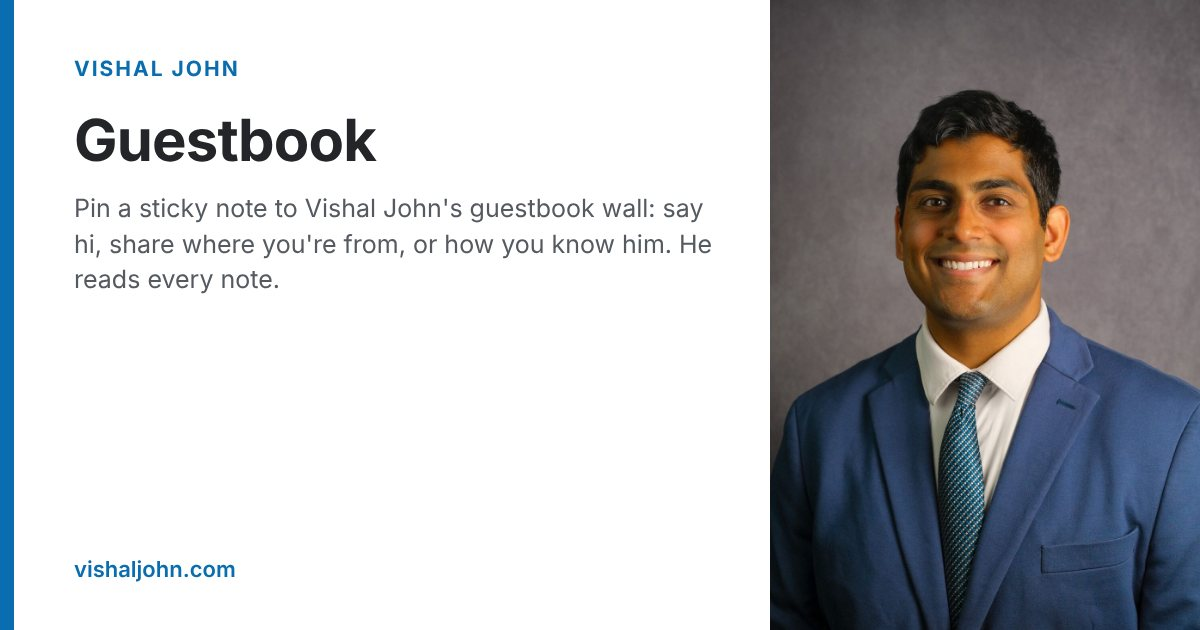
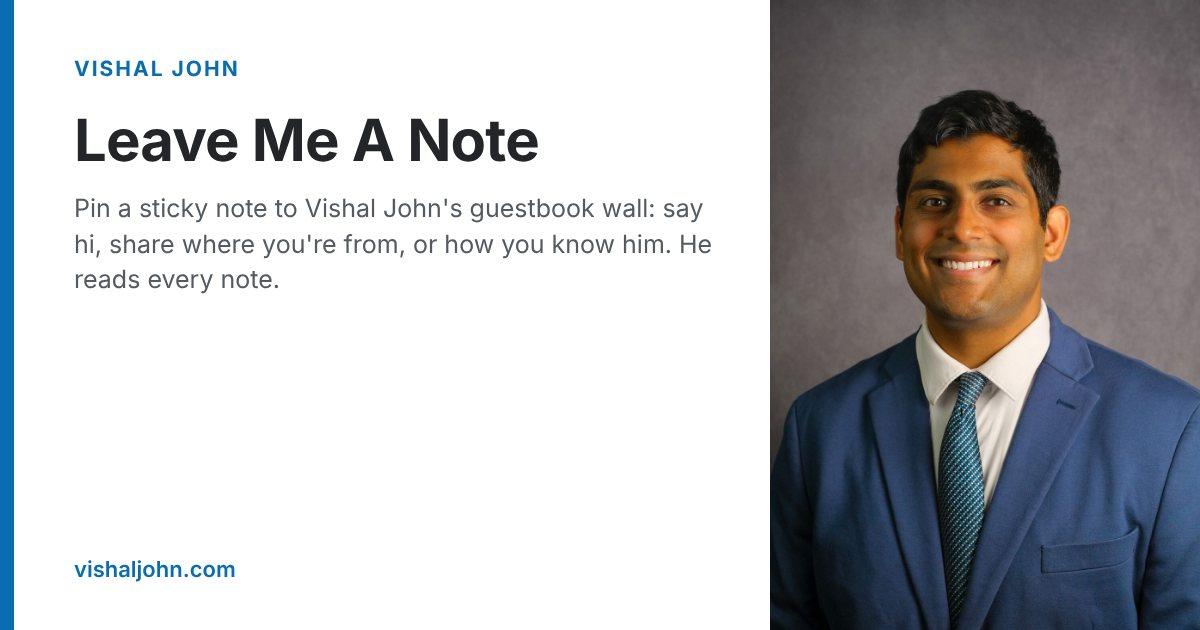
Rename Block Sim to Test Simulator, cookbook to Recipes; mobile and polish fixes
- Coding Projects: Test Simulator name and features match the renamed app; fix screenshot height,
  text clipping at 320px, and low-contrast labels
- Cookbook page is now 'Recipes' with recipe names matching the Recipes deck; shared recipe links open in place
- Guestbook heading matches the 'Leave Me A Note' nav; contact page card link styled
- Share images regenerated

Claude-Session: https://claude.ai/code/session_015P5LaJuV5QWX27LEm6GLrt

Changed region(s): [[0.0617, 0.181, 0.4625, 0.2714]]

diff --git a/pages/cookbook.html b/pages/cookbook.html
@@ -9,22 +9,22 @@
     <link rel="manifest" href="../site.webmanifest">
     <meta name="theme-color" content="#ffffff">
     <meta name="viewport" content="width=device-width, initial-scale=1.0">
-    <title>My Cookbook | Vishal John</title>
-    <meta name="description" content="Chef Vishal's cookbook: the 25 recipes Vishal John actually cooks, from weeknight mains and snacks to desserts and the Thai dishes he learned at a cooking class in Thailand.">
+    <title>Recipes | Vishal John</title>
+    <meta name="description" content="Chef Vishal's recipe collection: the 25 dishes Vishal John actually cooks, from weeknight mains and snacks to desserts and the Thai dishes he learned at a cooking class in Thailand.">
     <meta name="author" content="Vishal John">
     <meta name="robots" content="index, follow">
     <link rel="canonical" href="https://www.vishaljohn.com/pages/cookbook.html">
     <meta property="og:type" content="website">
-    <meta property="og:title" content="My Cookbook | Vishal John">
-    <meta property="og:description" content="Chef Vishal's cookbook: the 25 recipes Vishal John actually cooks, from weeknight mains and snacks to desserts and the Thai dishes he learned at a cooking class in Thailand.">
+    <meta property="og:title" content="Recipes | Vishal John">
+    <meta property="og:description" content="Chef Vishal's recipe collection: the 25 dishes Vishal John actually cooks, from weeknight mains and snacks to desserts and the Thai dishes he learned at a cooking class in Thailand.">
     <meta property="og:url" content="https://www.vishaljohn.com/pages/cookbook.html">
     <meta property="og:image" content="https://www.vishaljohn.com/assets/og/cookbook.jpg">
     <meta property="og:image:width" content="1200">
     <meta property="og:image:height" content="630">
     <meta property="og:site_name" content="Vishal John">
     <meta name="twitter:card" content="summary_large_image">
-    <meta name="twitter:title" content="My Cookbook | Vishal John">
-    <meta name="twitter:description" content="Chef Vishal's cookbook: the 25 recipes Vishal John actually cooks, from weeknight mains and snacks to desserts and the Thai dishes he learned at a cooking class in Thailand.">
+    <meta name="twitter:title" content="Recipes | Vishal John">
+    <meta name="twitter:description" content="Chef Vishal's recipe collection: the 25 dishes Vishal John actually cooks, from weeknight mains and snacks to desserts and the Thai dishes he learned at a cooking class in Thailand.">
     <meta name="twitter:image" content="https://www.vishaljohn.com/assets/og/cookbook.jpg">
     <link rel="preconnect" href="https://cdnjs.cloudflare.com" crossorigin>
     <link rel="stylesheet" href="https://cdnjs.cloudflare.com/ajax/libs/font-awesome/5.15.1/css/all.min.css">
@@ -156,7 +156,7 @@
                 <figcaption>Learning to cook with a wok at a Thai cooking class in Thailand</figcaption>
             </figure>
             <div>
-                <p class="cb-kicker">Chef Vishal's Cookbook</p>
+                <p class="cb-kicker">Recipes by Chef Vishal John</p>
                 <h2 class="cb-title">Recipes I actually cook</h2>
                 <p class="cb-lede">Med school taught me to cook fast, cheap, and healthy. The aspiring coffee shop owner in me can't resist a good dessert, though. These are my go-to recipes: weeknight mains, sauces and snacks I make on repeat, a few desserts, and the Thai and Southeast Asian dishes I fell in love with while traveling and at a cooking class in Thailand.</p>
                 <div class="cb-stats" id="cbStats"></div>
@@ -215,7 +215,7 @@
         steps: ['Preheat the oven to 450°F. Whisk the flour, milk, garlic powder, salt, and pepper.', 'Dip each floret in the batter, let the excess drip off, and lay on a parchment-lined baking sheet.', 'Bake on an upper rack 15–20 minutes until lightly crisp and browned (or use the air fryer).', 'Toss the cauliflower in the hot sauce and return to the oven 5–10 minutes.', 'Serve in tortillas with cilantro.'] },
       { t: 'Mozzarella Basil Pesto Sando', e: '🥪', cat: 'main', ing: ['Artisan French bread', 'Mozzarella slices', 'Basil pesto', '#Optional', 'Grilled chicken', 'Tomato', 'Spinach'],
         steps: ['Spread basil pesto on the bread.', 'Layer on the mozzarella (and any optional fillings).', 'Broil at 400°F for 5–7 minutes.', 'Put the halves together and enjoy.'] },
-      { t: 'Any-Veggie Pasta Sauce From Scratch', e: '🍝', cat: 'main', ing: ['10 g cornstarch', '150 g water', 'A vegetable of your choice (e.g. spinach, sun-dried tomato)', '3–5 garlic cloves', 'Parmesan', 'Juice of ½ lemon', '2 tbsp neutral oil'],
+      { t: 'Pasta Sauce From Scratch (Any Type)', e: '🍝', cat: 'main', ing: ['10 g cornstarch', '150 g water', 'A vegetable of your choice (e.g. spinach, sun-dried tomato)', '3–5 garlic cloves', 'Parmesan', 'Juice of ½ lemon', '2 tbsp neutral oil'],
         steps: ['Stir the cornstarch into the water and heat on the stove until fully dissolved. Set aside.', 'If using spinach, blanch it: boil 50 seconds, then cool.', 'Blend the lemon juice, vegetables, cornstarch water, parmesan, garlic, oil, and a little extra water until completely smooth.'] },
       { t: 'Mongolian Beef', e: '🥩', cat: 'main', ing: ['#For the beef', '1 lb flank steak, thinly sliced', '2 tbsp water', '2 tsp Shaoxing rice wine', '½ tsp kosher salt', '¼ tsp baking soda', '2 tbsp cornstarch', '1 tbsp neutral oil', '#For the sauce', '1 tsp cracked black pepper', '1 tbsp Shaoxing rice wine', '3 tbsp sugar', '2 tbsp soy sauce', '#For the rest', '1 tbsp minced garlic', '½ large yellow onion, sliced', '1 bunch green onions, in 2-inch pieces (whites and greens separated)', '1 oz rice vermicelli (optional)', 'Oil for cooking'],
         steps: ['Marinate the beef: mix it hard with the water, rice wine, salt, and baking soda. Add the cornstarch, then the oil. Rest 10–15 minutes (or overnight in the fridge).', 'Optional: fry the dry vermicelli in 350°F oil until puffy; drain on paper towels.', 'Sear the beef in a hot wok until golden brown. Set aside.', 'In the same pan, stir-fry the garlic, then the onion. Return the beef, add the pepper and rice wine, then the sugar and soy sauce, stirring to coat.', 'Toss in the green onion greens for a few seconds and serve over the crispy noodles.'],
@@ -232,12 +232,12 @@
         steps: ['Soak the noodles in warm water 20–30 minutes until soft; drain.', 'Mix the sauce until the sugar dissolves.', 'Cook the shrimp in 1 tbsp oil over medium-high heat until pink, 2–3 minutes. Set aside.', 'Add the rest of the oil and scramble the eggs until just set.', 'Add the noodles and sauce and toss to coat. Add the shrimp, bean sprouts, and green onion and stir-fry 2–3 minutes.', 'Top with peanuts, lime, and cilantro.'] },
       { t: 'Green Curry (Gaeng Keow Wan)', e: '🥘', cat: 'main', travel: 1, ing: ['400 ml coconut milk', '3 tbsp green curry paste', '500 g chicken breast, thinly sliced', '1 cup chicken broth', '2 tbsp fish sauce', '1 tbsp palm sugar', '1 cup bamboo shoots', '1 red bell pepper, sliced', '1 cup Thai eggplant, quartered', '½ cup fresh basil', '2 kaffir lime leaves, torn', '1 tbsp vegetable oil', 'Jasmine rice, to serve'],
         steps: ['Fry the curry paste in the oil until fragrant, 1–2 minutes.', 'Add the chicken and cook until no longer pink.', 'Add the coconut milk and broth, bring to a boil, then simmer 10 minutes.', 'Add the bamboo shoots, bell pepper, eggplant, fish sauce, palm sugar, and lime leaves. Simmer 10 more minutes.', 'Stir in the basil for a minute or two and serve over jasmine rice.'] },
-      { t: 'Tom Kha Gai', e: '🥥', cat: 'main', travel: 1, ing: ['400 ml coconut milk', '2 cups chicken broth', '500 g chicken breast, thinly sliced', '4 kaffir lime leaves, torn', '3 lemongrass stalks, smashed and cut in 2-inch pieces', '5 slices galangal', '200 g mushrooms, sliced', '2 tbsp fish sauce', '1 tbsp lime juice', '3–4 Thai chilies, smashed', 'Fresh cilantro'],
+      { t: 'Tom Kha Kai (Tom Kha Gai)', e: '🥥', cat: 'main', travel: 1, ing: ['400 ml coconut milk', '2 cups chicken broth', '500 g chicken breast, thinly sliced', '4 kaffir lime leaves, torn', '3 lemongrass stalks, smashed and cut in 2-inch pieces', '5 slices galangal', '200 g mushrooms, sliced', '2 tbsp fish sauce', '1 tbsp lime juice', '3–4 Thai chilies, smashed', 'Fresh cilantro'],
         steps: ['Bring the broth, coconut milk, lime leaves, lemongrass, and galangal to a simmer.', 'Add the chicken and mushrooms and simmer about 10 minutes until cooked through.', 'Season with the fish sauce, lime juice, and chilies. Taste and adjust.', 'Serve topped with cilantro.'] },
 
       { t: 'Pickled Red Onions', e: '🧅', cat: 'side', ing: ['1 red onion', 'Vinegar', 'Water', 'Salt', 'Sweetener and seasonings of your choice'],
         steps: ['Bring the vinegar, water, salt, sweetener, and seasonings to a simmer (stovetop or microwave).', 'Meanwhile, slice the onion as thinly as you can (knife or mandoline).', 'Pack the onion into a mason jar, pour in the hot liquid, cover, and shake.', 'Let sit about 30 minutes, keeping the onion submerged, and they’re ready.'] },
-      { t: 'Balsamic Honey Brussels Sprouts', e: '🥬', cat: 'side', ing: ['Brussels sprouts, trimmed and halved', '3 tbsp oil, divided', 'Salt and pepper', 'Garlic powder', 'Balsamic vinegar', 'Honey'],
+      { t: 'Roasted Brussels Sprouts with Balsamic and Honey', e: '🥬', cat: 'side', ing: ['Brussels sprouts, trimmed and halved', '3 tbsp oil, divided', 'Salt and pepper', 'Garlic powder', 'Balsamic vinegar', 'Honey'],
         steps: ['Toss the halved sprouts with 2 tbsp oil, salt, pepper, and garlic powder on a baking sheet.', 'Roast, stirring once halfway, until tender and golden, about 20 minutes.', 'Drizzle with the last tablespoon of oil, the balsamic, and the honey, and toss to coat.'] },
       { t: 'Kimchi', e: '🥢', cat: 'side', ing: ['½ small napa cabbage', '2 tbsp sea salt', 'Water to cover', '2 tsp grated garlic (2–3 cloves)', '½ tsp grated ginger', '½ tsp sugar', '1–2 tbsp seafood flavoring or water (optional)', '1–2 tbsp gochujang, to taste', '4 oz Korean radish or daikon, in matchsticks', '2 scallions, in 1-inch pieces', '1 medium carrot, in matchsticks', 'A 32 oz jar'],
         steps: ['Quarter and core the cabbage, cut into bite-size pieces, toss with the salt, cover with water, weigh down with a plate, and leave 1–2 hours.', 'Rinse under cold water and drain 15–20 minutes.', 'Mix the garlic, ginger, sugar, seafood flavoring, and gochujang into a paste.', 'Squeeze the cabbage dry and mix it (with gloves) with the radish, scallions, carrot, and paste.', 'Pack tightly into the jar, pressing out air and keeping it under the brine, with space at the top.', 'Ferment at room temperature 1–5 days, pressing it down daily, then refrigerate. Keeps for months.'] },
@@ -253,15 +253,15 @@
       { t: 'Crème Brûlée', e: '🍮', cat: 'dessert', ing: ['#For 4 (4 oz) ramekins', '4 egg yolks', '4 tbsp sugar, plus more for the top', '4 tsp vanilla extract', '2 cups heavy cream'],
         steps: ['Whisk the yolks, sugar, vanilla, and cream until smooth.', 'Pour into ramekins and bake at 250°F for 45 minutes.', 'Chill at least an hour (or overnight) to set.', 'Sprinkle sugar on top and broil (or torch) until caramelized.'],
         note: 'No torch? Caramelize 1 tbsp sugar per custard with a little honey and water in a pan, then pour it over the top.' },
-      { t: 'Oat Flour Banana Bread', e: '🍌', cat: 'dessert', ing: ['2 cups oat flour (gluten-free if needed)', '2 tsp baking powder', '¼ tsp salt', '½ cup neutral oil', '2 eggs', '½ cup sugar (brown, coconut, or white)', '3 large ripe bananas, mashed', '1 tsp vanilla extract', '½ cup chopped walnuts', 'Optional: peanut butter, protein powder, or chocolate chips'],
+      { t: 'Banana Bread', e: '🍌', cat: 'dessert', ing: ['2 cups oat flour (gluten-free if needed)', '2 tsp baking powder', '¼ tsp salt', '½ cup neutral oil', '2 eggs', '½ cup sugar (brown, coconut, or white)', '3 large ripe bananas, mashed', '1 tsp vanilla extract', '½ cup chopped walnuts', 'Optional: peanut butter, protein powder, or chocolate chips'],
         steps: ['Preheat the oven to 350°F (180°C) and line a loaf pan.', 'Mix the oat flour, baking powder, and salt.', 'In another bowl, whisk the oil, eggs, sugar, bananas, and vanilla.', 'Stir in the dry ingredients until just combined, then fold in the walnuts.', 'Bake 35–40 minutes, until a skewer comes out clean. Cool completely before slicing.'] },
       { t: 'High-Protein Cottage Cheesecake', e: '🍰', cat: 'dessert', ing: ['#Crust', '2 tbsp graham cracker crumbs', '½ tbsp melted butter', '#Cheesecake', '½ cup cottage cheese', '1 large egg', '2 tbsp Greek yogurt', '2 tbsp honey', '½ tsp vanilla extract', '1 scoop protein powder or ¼ cup almond flour'],
         steps: ['Preheat the oven to 375°F. Press the crumbs and butter into a small ramekin and bake 5–7 minutes until golden.', 'Lower the oven to 325°F.', 'Blend all the cheesecake ingredients until smooth and pour over the crust.', 'Bake 20–25 minutes until set. Cool, cover, and chill a few hours before slicing.'] },
       { t: 'Mango Sticky Rice (Khao Niew Mamuang)', e: '🍚', cat: 'dessert', travel: 1, ing: ['1 cup glutinous (sticky) rice', '1½ cups coconut milk', '½ cup sugar', '¼ tsp salt', '2 ripe mangoes, sliced', '1 tbsp toasted sesame seeds (optional)'],
         steps: ['Rinse the rice until the water runs clear, soak at least 1 hour, and drain.', 'Steam 20–25 minutes until tender.', 'Warm the coconut milk, sugar, and salt, stirring until the sugar dissolves.', 'Pour about ¾ of the sauce over the hot rice, stir, and let it soak in 10 minutes.', 'Serve with mango, the rest of the sauce, and sesame seeds.'] },
-      { t: 'Thai Iced Tea (Cha Yen)', e: '🧋', cat: 'dessert', travel: 1, ing: ['4 cups water', '4 Thai tea bags (or 4 tbsp loose leaves)', '½ cup sugar', '½ cup evaporated milk', '½ cup sweetened condensed milk', 'Ice'],
+      { t: 'Thai Tea (Cha Yen)', e: '🧋', cat: 'dessert', travel: 1, ing: ['4 cups water', '4 Thai tea bags (or 4 tbsp loose leaves)', '½ cup sugar', '½ cup evaporated milk', '½ cup sweetened condensed milk', 'Ice'],
         steps: ['Boil the water, add the tea and sugar, stir to dissolve, and steep 5 minutes off the heat.', 'Strain (if loose leaf) and cool to room temperature.', 'Fill glasses with ice and pour the tea about ¾ of the way up.', 'Top with evaporated milk and a splash of condensed milk. Stir and serve.'] },
-      { t: 'Klepon (Pandan Palm Sugar Balls)', e: '🟢', cat: 'dessert', travel: 1, ing: ['200 g glutinous rice flour', '180 ml pandan juice (or water with a few drops of pandan extract)', '¼ tsp salt', '100 g palm sugar (gula Melaka), finely chopped', '100 g grated coconut', 'A pinch of salt for the coating'],
+      { t: 'Klepon Balls (Klepon)', e: '🟢', cat: 'dessert', travel: 1, ing: ['200 g glutinous rice flour', '180 ml pandan juice (or water with a few drops of pandan extract)', '¼ tsp salt', '100 g palm sugar (gula Melaka), finely chopped', '100 g grated coconut', 'A pinch of salt for the coating'],
         steps: ['Make pandan juice by blending pandan leaves with water and straining (or use extract).', 'Knead the rice flour and salt with the pandan juice into a smooth dough.', 'Flatten small pieces in your palm, add a little palm sugar, and seal into balls.', 'Boil until they float, then 2–3 more minutes so the sugar melts inside.', 'Roll in the salted coconut and serve at room temperature.'],
         note: 'They burst with melted palm sugar when you bite in.' }
     ];

diff --git a/pages/codingprojects.html b/pages/codingprojects.html
@@ -10,13 +10,13 @@
     <meta name="theme-color" content="#ffffff">
     <meta name="viewport" content="width=device-width, initial-scale=1.0">
     <title>Coding Projects &amp; Tools | Vishal John</title>
-    <meta name="description" content="Free, open-source tools Vishal John built to make medical school studying faster: Block Sim board-style practice exams, AnkiMedRef, Anki Face Control, and UWorld2Anki.">
+    <meta name="description" content="Free, open-source tools Vishal John built to make medical school studying faster: Test Simulator board-style practice exams, AnkiMedRef, Anki Face Control, and UWorld2Anki.">
     <meta name="author" content="Vishal John">
     <meta name="robots" content="index, follow">
     <link rel="canonical" href="https://www.vishaljohn.com/pages/codingprojects.html">
     <meta property="og:type" content="website">
     <meta property="og:title" content="Coding Projects &amp; Tools | Vishal John">
-    <meta property="og:description" content="Free, open-source tools Vishal John built to make medical school studying faster: Block Sim board-style practice exams, AnkiMedRef, Anki Face Control, and UWorld2Anki.">
+    <meta property="og:description" content="Free, open-source tools Vishal John built to make medical school studying faster: Test Simulator board-style practice exams, AnkiMedRef, Anki Face Control, and UWorld2Anki.">
     <meta property="og:url" content="https://www.vishaljohn.com/pages/codingprojects.html">
     <meta property="og:image" content="https://www.vishaljohn.com/assets/og/codingprojects.jpg">
     <meta property="og:image:width" content="1200">
@@ -24,7 +24,7 @@
     <meta property="og:site_name" content="Vishal John">
     <meta name="twitter:card" content="summary_large_image">
     <meta name="twitter:title" content="Coding Projects &amp; Tools | Vishal John">
-    <meta name="twitter:description" content="Free, open-source tools Vishal John built to make medical school studying faster: Block Sim board-style practice exams, AnkiMedRef, Anki Face Control, and UWorld2Anki.">
+    <meta name="twitter:description" content="Free, open-source tools Vishal John built to make medical school studying faster: Test Simulator board-style practice exams, AnkiMedRef, Anki Face Control, and UWorld2Anki.">
     <meta name="twitter:image" content="https://www.vishaljohn.com/assets/og/codingprojects.jpg">
     <link rel="preconnect" href="https://cdnjs.cloudflare.com" crossorigin>
     <link rel="stylesheet" href="https://cdnjs.cloudflare.com/ajax/libs/font-awesome/5.15.1/css/all.min.css">
@@ -229,37 +229,37 @@
         <p class="pub-empty" id="cpEmpty" hidden>No tools match that. <button type="button" class="pub-reset" id="cpReset">Show all tools</button></p>
 
         <div id="cpList">
-            <!-- 1. Block Sim (featured) -->
-            <article class="tool-card featured" data-tags="exams" style="--tc:#0a6db0" id="block-sim">
+            <!-- 1. Test Simulator (featured) -->
+            <article class="tool-card featured" data-tags="exams" style="--tc:#0a6db0" id="test-simulator">
                 <div class="shot-wrap">
-                    <img class="tool-shot" src="../images/projects/block-sim.jpg" width="1600" height="775" alt="Block Sim's board-style test screen showing a demo question with five answer choices, a question list, Lab Values, Notes and Calculator buttons, and a block timer">
+                    <img class="tool-shot" src="../images/projects/block-sim.jpg" width="1600" height="775" alt="Test Simulator's board-style test screen showing a demo question with five answer choices, a question list, Lab Values, Notes and Calculator buttons, and a block timer">
                     <span class="shot-tag">Featured · Live now</span>
                 </div>
                 <div class="tool-body">
                     <div class="pub-badges"><span class="badge b-type">Web app</span><span class="badge b-free">Free · no account</span><span class="badge b-lang">TypeScript · React</span></div>
-                    <h3 class="tool-title">Block Sim</h3>
+                    <h3 class="tool-title">Test Simulator</h3>
                     <p class="tool-tag">Board-style practice exams from your own PDFs</p>
-                    <p class="tool-desc">Load any question PDF and its answer key, and Block Sim turns it into a test screen that looks and feels like the real boards: timed blocks, a question list, highlighting, strike-outs, lab values, and a calculator. Every attempt is saved, so you can come back weeks later, review exactly what you missed, and redo those questions on a spaced schedule until they stick. Everything runs in your browser. Nothing you load ever leaves your computer, and it works offline.</p>
+                    <p class="tool-desc">Load any question PDF and its answer key, and Test Simulator turns it into a test screen that looks and feels like the real boards: timed blocks, a question list, highlighting, strike-outs, lab values, and a calculator. Every attempt is saved, so you can come back weeks later, review exactly what you missed, and redo those questions until they stick. Everything runs in your browser. Nothing you load ever leaves your computer, and it works offline.</p>
                     <ul class="tool-feats">
                         <li>Exam, Tutor, and Untimed modes, including shelf-style 4-block presets</li>
                         <li>Highlight, strike out, mark, and take notes, just like test day</li>
                         <li>Built-in Lab Values and Calculator</li>
-                        <li>Score reports by topic, confidence, and time per question</li>
-                        <li>Missed-question bank with spaced redos (3, 7, 21, 60 days)</li>
-                        <li>Weak Areas view, offline install, and private by design</li>
+                        <li>Library with subject folders, score bars, and whole-folder import</li>
+                        <li>Redo only missed or marked questions, weeks later</li>
+                        <li>Installs as an app, works offline, private by design</li>
                     </ul>
                     <details class="tool-how">
                         <summary>How to use it</summary>
                         <ol>
-                            <li>Open <a href="https://www.vishaljohn.com/block-sim/" target="_blank" rel="noopener">Block Sim</a> in Chrome or Edge (Safari and iPad work too) and try the 5-question demo.</li>
+                            <li>Open <a href="https://www.vishaljohn.com/block-sim/" target="_blank" rel="noopener">Test Simulator</a> in Chrome or Edge (Safari and iPad work too) and try the 5-question demo.</li>
                             <li>Optionally pick a data folder in iCloud, OneDrive, or Google Drive so your history follows you.</li>
                             <li>Go to <b>Library → Import a PDF exam</b>, add the questions and the answer key, and check the key.</li>
-                            <li>Start a block, then review your score report and missed questions.</li>
+                            <li>Start a block, then review your results and redo the ones you missed.</li>
                         </ol>
                     </details>
                     <div class="tool-stack"><span>React</span><span>TypeScript</span><span>Tailwind</span><span>pdf.js</span><span>Tesseract OCR</span><span>IndexedDB</span><span>Offline PWA</span></div>
                     <div class="pub-actions">
-                        <a class="pub-link" href="https://www.vishaljohn.com/block-sim/" target="_blank" rel="noopener"><i class="fas fa-play" aria-hidden="true"></i> Open Block Sim</a>
+                        <a class="pub-link" href="https://www.vishaljohn.com/block-sim/" target="_blank" rel="noopener"><i class="fas fa-play" aria-hidden="true"></i> Open Test Simulator</a>
                         <a class="gh-link" href="https://github.com/vishaljjohn/block-sim" target="_blank" rel="noopener"><i class="fab fa-github" aria-hidden="true"></i> View on GitHub</a>
                     </div>
                     <p class="tool-note">Only import materials you have the right to use.</p>
@@ -379,7 +379,7 @@
 
     <nav class="project-nav" aria-label="More projects">
 <a class="pn-prev" href="japan.html"><span class="pn-dir">&larr; Previous project</span><span class="pn-name">Ishinomaki, Japan</span></a>
-<a class="pn-next" href="cookbook.html"><span class="pn-dir">Next project &rarr;</span><span class="pn-name">My Cookbook</span></a>
+<a class="pn-next" href="cookbook.html"><span class="pn-dir">Next project &rarr;</span><span class="pn-name">Recipes</span></a>
 </nav>
 
     <!-- site:footer -->

diff --git a/cloudflare-worker.js b/cloudflare-worker.js
@@ -23,8 +23,8 @@ GROUND RULES
 - Use ONLY the facts below. If something isn't here, say you're not sure and point them to the Contact page. Never invent facts, dates, titles, grades, or details.
 - Don't brand Vishal with a professional title he hasn't chosen — never call him "a researcher" as his identity. You MAY describe research he actually did if asked.
 - Politely decline anything inappropriate, hateful, political, or unrelated, and never give medical advice. Steer back to Vishal.
-- Coding projects (https://www.vishaljohn.com/pages/codingprojects.html): free, open-source study tools he built: Block Sim (board-style practice exams from your own PDFs, runs in the browser at vishaljohn.com/block-sim, private and offline), AnkiMedRef (Anki add-on: hover a medical term for an instant definition; built with his classmate Agboade, whose idea it was), Anki Face Control (hands-free Anki using head movements via webcam, made for students with disabilities or mobility issues), and UWorld2Anki (Chrome extension that opens the Anki cards matching a UWorld question).
-- Cookbook (https://www.vishaljohn.com/pages/cookbook.html): 25 of his go-to recipes, including Thai dishes he learned at a cooking class in Thailand (khao soi, pad thai, green curry, tom kha gai, mango sticky rice).
+- Coding projects (https://www.vishaljohn.com/pages/codingprojects.html): free, open-source study tools he built: Test Simulator (board-style practice exams from your own PDFs, runs in the browser at vishaljohn.com/block-sim, private and offline), AnkiMedRef (Anki add-on: hover a medical term for an instant definition; built with his classmate Agboade, whose idea it was), Anki Face Control (hands-free Anki using head movements via webcam, made for students with disabilities or mobility issues), and UWorld2Anki (Chrome extension that opens the Anki cards matching a UWorld question).
+- Recipes, his cookbook (https://www.vishaljohn.com/pages/cookbook.html): 25 of his go-to recipes, including Thai dishes he learned at a cooking class in Thailand (khao soi, pad thai, green curry, tom kha gai, mango sticky rice).
 - Bluegrass Biodesign device: ATriFlow, a clinician-prescribed three-band wearable (arm, wrist, ankle) with light-based pulse sensors that tracks markers of vascular health (ABI, pulse wave velocity, reflection index, HRV) to catch early warning signs of heart attack, stroke, and heart failure between clinic visits. Technical design details are confidential.
 - Guestbook: visitors can pin a sticky note (say hi, where they're from, how they know him) at https://www.vishaljohn.com/pages/guestbook.html; mention it if someone wants to say hi or leave a message for everyone to see.
 - Contact: point people to the Contact page. You may share his school email vishal.john@louisville.edu (it's on his public CV). Never share his phone number.

diff --git a/pages/guestbook.html b/pages/guestbook.html
@@ -9,13 +9,13 @@
     <link rel="manifest" href="../site.webmanifest">
     <meta name="theme-color" content="#ffffff">
     <meta name="viewport" content="width=device-width, initial-scale=1.0">
-    <title>Guestbook | Vishal John</title>
+    <title>Leave Me A Note | Vishal John</title>
     <meta name="description" content="Pin a sticky note to Vishal John's guestbook wall: say hi, share where you're from, or how you know him. He reads every note.">
     <meta name="author" content="Vishal John">
     <meta name="robots" content="index, follow">
     <link rel="canonical" href="https://www.vishaljohn.com/pages/guestbook.html">
     <meta property="og:type" content="website">
-    <meta property="og:title" content="Guestbook | Vishal John">
+    <meta property="og:title" content="Leave Me A Note | Vishal John">
     <meta property="og:description" content="Pin a sticky note to Vishal John's guestbook wall: say hi, share where you're from, or how you know him. He reads every note.">
     <meta property="og:url" content="https://www.vishaljohn.com/pages/guestbook.html">
     <meta property="og:image" content="https://www.vishaljohn.com/assets/og/guestbook.jpg">
@@ -23,7 +23,7 @@
     <meta property="og:image:height" content="630">
     <meta property="og:site_name" content="Vishal John">
     <meta name="twitter:card" content="summary_large_image">
-    <meta name="twitter:title" content="Guestbook | Vishal John">
+    <meta name="twitter:title" content="Leave Me A Note | Vishal John">
     <meta name="twitter:description" content="Pin a sticky note to Vishal John's guestbook wall: say hi, share where you're from, or how you know him. He reads every note.">
     <meta name="twitter:image" content="https://www.vishaljohn.com/assets/og/guestbook.jpg">
     <link rel="preconnect" href="https://cdnjs.cloudflare.com" crossorigin>
@@ -225,7 +225,7 @@
 
     <div class="container">
     <div class="main-content">
-        <h2>Guestbook</h2>
+        <h2>Leave Me A Note</h2>
         <p class="gb-intro">Stopped by? Pin a note to the wall. Tell me where you're from, how we met, or just say hi. I read every single one.</p>
         <p class="gb-count" id="gbCount" aria-live="polite">&nbsp;</p>
 

diff --git a/index.html b/index.html
@@ -966,7 +966,7 @@
             { t: 'Hospital Elder Life Program', img: 'images/help.jpg', url: 'pages/HELP.html' },
             { t: 'Ishinomaki Revitalization (Japan)', img: 'images/japan1.jpg', url: 'pages/japan.html' },
             { t: 'Coding Projects & Tools', img: 'images/projects/block-sim.jpg', url: 'pages/codingprojects.html' },
-            { t: 'My Cookbook', img: 'images/cooking-thailand.jpg', url: 'pages/cookbook.html' }
+            { t: 'Recipes', img: 'images/cooking-thailand.jpg', url: 'pages/cookbook.html' }
         ];
         var grid = document.getElementById('workGrid');
         projects.forEach(function (p) {
@@ -1088,7 +1088,7 @@
             { k: ['breakfast','andrew','saint','volunteer','service','community'],
               a: "i served at Saint Andrew's Breakfast Program from 2021 to 2024, and i'm on the board of Rock Cancer. there's a page on <a href='pages/standrews.html'>Saint Andrew's</a>, and you can see everything via 'My work' in the chat." },
             { k: ['coding','code','github','program','tool','block sim','blocksim','anki add','extension','software','app'],
-              a: "i build free study tools for med school: Block Sim (board-style practice exams from your own PDFs), AnkiMedRef, Anki Face Control, and UWorld2Anki. they're all on my <a href='pages/codingprojects.html'>Coding Projects &amp; Tools</a> page." },
+              a: "i build free study tools for med school: Test Simulator (board-style practice exams from your own PDFs), AnkiMedRef, Anki Face Control, and UWorld2Anki. they're all on my <a href='pages/codingprojects.html'>Coding Projects &amp; Tools</a> page." },
             { k: ['cook','recipe','food','chef','thai','kitchen','bake'],
               a: "i love to cook! my <a href='pages/cookbook.html'>cookbook</a> has 25 of my go-to recipes, including the thai dishes i learned at a cooking class in thailand." },
             { k: ['guestbook','guest book','sticky note','leave a note','sign your','pin a note'],

diff --git a/assets/chat-widget.js b/assets/chat-widget.js
@@ -32,7 +32,7 @@
     { k: ['volunteer','service','community','elder life','help program','breakfast','andrew'],
       a: "i'm on the board of Rock Cancer, and in Ann Arbor i volunteered with Saint Andrew's Breakfast Program and the Hospital Elder Life Program (HELP) until 2024." },
     { k: ['coding','code','github','program','tool','block sim','blocksim','anki add','extension','software'],
-      a: "i build free study tools for med school, like Block Sim (board-style practice exams from your own PDFs) and Anki add-ons. see my <a href='/pages/codingprojects.html'>Coding Projects &amp; Tools</a> page." },
+      a: "i build free study tools for med school, like Test Simulator (board-style practice exams from your own PDFs) and Anki add-ons. see my <a href='/pages/codingprojects.html'>Coding Projects &amp; Tools</a> page." },
     { k: ['cook','recipe','food','chef','thai','kitchen','bake'],
       a: "i love to cook! my <a href='/pages/cookbook.html'>cookbook</a> has 25 of my go-to recipes, including thai dishes from a cooking class in thailand." },
     { k: ['guestbook','guest book','sticky note','leave a note','sign your','pin a note'],

diff --git a/index_classic.html b/index_classic.html
@@ -223,8 +223,8 @@
             <div class="project-caption">Coding Projects &amp; Tools</div>
         </div>
         <div class="project-item">
-            <a href="pages/cookbook.html"><img loading="lazy" decoding="async" src="images/thumbs/cooking-thailand.jpg" alt="My Cookbook" style="object-position:center 25%"></a>
-            <div class="project-caption">My Cookbook</div>
+            <a href="pages/cookbook.html"><img loading="lazy" decoding="async" src="images/thumbs/cooking-thailand.jpg" alt="Recipes" style="object-position:center 25%"></a>
+            <div class="project-caption">Recipes</div>
         </div>
     </div>
 

diff --git a/pages/contact.html b/pages/contact.html
@@ -54,6 +54,9 @@
         [hidden] { display: none !important; }
             .card-link { font-size: 14px; color: #555a61; margin: 0 0 18px; }
         html.dark .card-link { color: #cdd4de; }
+        .card-link a { color: #0a6db0; font-weight: 600; text-decoration: none; }
+        .card-link a:hover, .card-link a:focus-visible { text-decoration: underline; }
+        html.dark .card-link a { color: #7cc0f2; }
         /* inbox (contact.html?admin) */
         .ct-inbox { background: #fff7e0; border: 1px solid #f0d58a; border-radius: 10px; padding: 16px 18px; margin: 0 0 24px; }
         .ct-inbox h2 { margin: 0 0 10px; }

diff --git a/pages/balloonanimals.html b/pages/balloonanimals.html
@@ -148,7 +148,7 @@
     </div>
 
     <nav class="project-nav" aria-label="More projects">
-<a class="pn-prev" href="cookbook.html"><span class="pn-dir">&larr; Previous project</span><span class="pn-name">My Cookbook</span></a>
+<a class="pn-prev" href="cookbook.html"><span class="pn-dir">&larr; Previous project</span><span class="pn-name">Recipes</span></a>
 <a class="pn-next" href="rockcancer.html"><span class="pn-dir">Next project &rarr;</span><span class="pn-name">Rock Cancer</span></a>
 </nav>
 <!-- site:footer -->

diff --git a/tools/build-share-images.py b/tools/build-share-images.py
@@ -23,7 +23,7 @@ PAGES = {
     "pages/publications.html": ("Publications", "images/Photo1.jpg"),
     "pages/blog.html": ("My Writing", "images/Vishal John Headshot.jpg"),
     "pages/contact.html": ("Get in Touch", "images/Vishal John Headshot.jpg"),
-    "pages/guestbook.html": ("Guestbook", "images/Vishal John Headshot.jpg"),
+    "pages/guestbook.html": ("Leave Me A Note", "images/Vishal John Headshot.jpg"),
     "pages/card.html": ("Digital Business Card", "images/Vishal John Headshot.jpg"),
     "pages/balloonanimals.html": ("Balloon Animals", "images/balloon_clownnose1.jpg"),
     "pages/rockcancer.html": ("Rock Cancer", "images/RockCancer.jpg"),
@@ -35,7 +35,7 @@ PAGES = {
     "pages/HELP.html": ("Hospital Elder Life Program", "images/help.jpg"),
     "pages/japan.html": ("Ishinomaki, Japan", "images/japan1.jpg"),
     "pages/codingprojects.html": ("Coding Projects & Tools", "images/projects/block-sim.jpg"),
-    "pages/cookbook.html": ("My Cookbook", "images/cooking-thailand.jpg"),
+    "pages/cookbook.html": ("Recipes", "images/cooking-thailand.jpg"),
 }
 
 CARD = """<!DOCTYPE html><html><head><meta charset="utf-8"><style>
